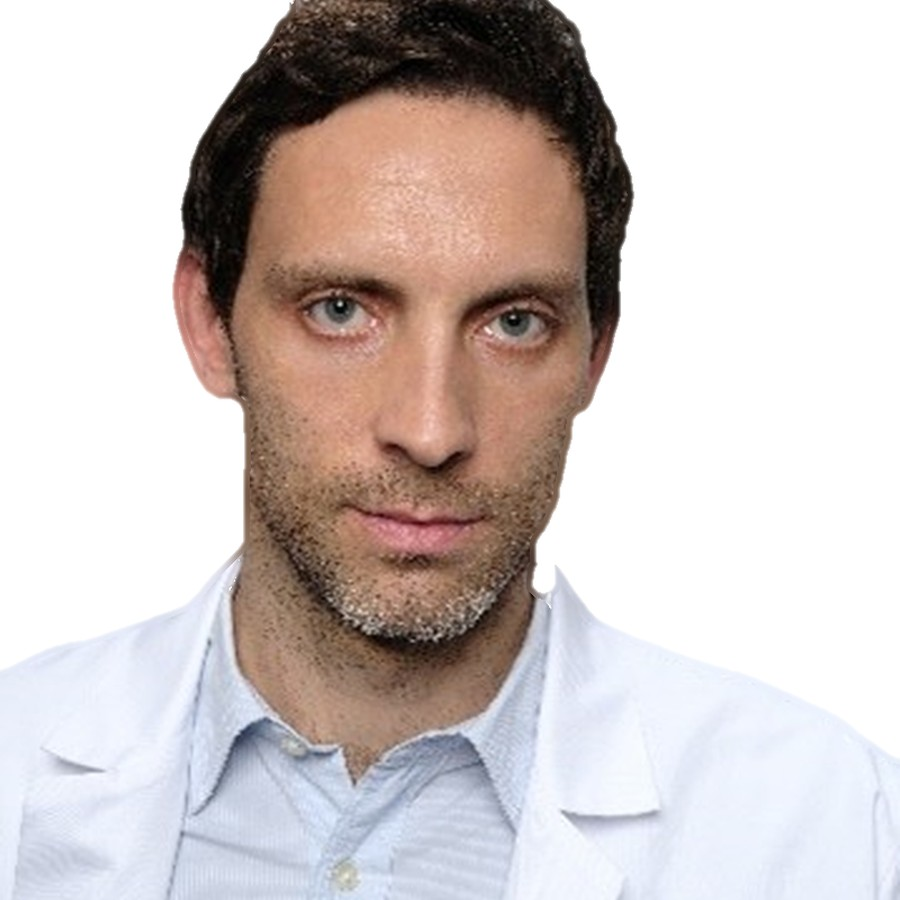
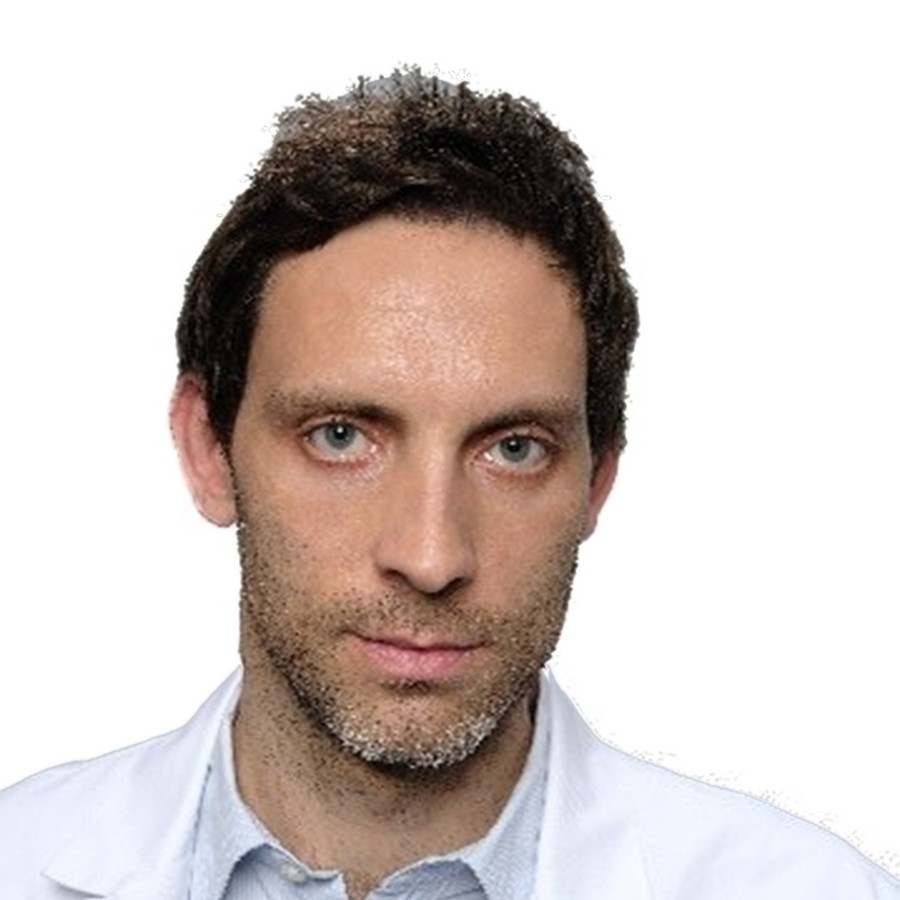
Faculty: photo of Benjamin Marjanovič; Jakob Merkač re-cropped with the full hairstyle
Claude-Session: https://claude.ai/code/session_01UctKKNYtk9MYMcKBNg5a5s

diff --git a/faculty-data.js b/faculty-data.js
@@ -7,7 +7,7 @@
    cv      – short CV (5–8 sentences); a blank line in the text starts a new paragraph
    slug    – optional: the subpage address is speaker.html#slug; when omitted it is made from the name */
 window.SKAA_FACULTY = [
-  {name:"Benjamin Marjanovič", team:"ortho", captain:true, role:"Team captain · Expert jury", photo:"", cv:"Biography and photo to follow."},
+  {name:"Benjamin Marjanovič", team:"ortho", captain:true, role:"Team captain · Expert jury", photo:"assets/faculty/benjamin-marjanovic.jpg", cv:"Biography to follow."},
   {name:"Bogdan Ambrožič", team:"ortho", role:"Speaker · Expert jury", photo:"", cv:"Biography and photo to follow."},
   {name:"Emmanouil Antonogiannakis", team:"ortho", role:"Battle · Speaker", photo:"", cv:"Biography and photo to follow."},
   {name:"Markas Fiodorovas", team:"ortho", role:"Battle · Speaker · Expert jury", photo:"", cv:"Biography and photo to follow."},
